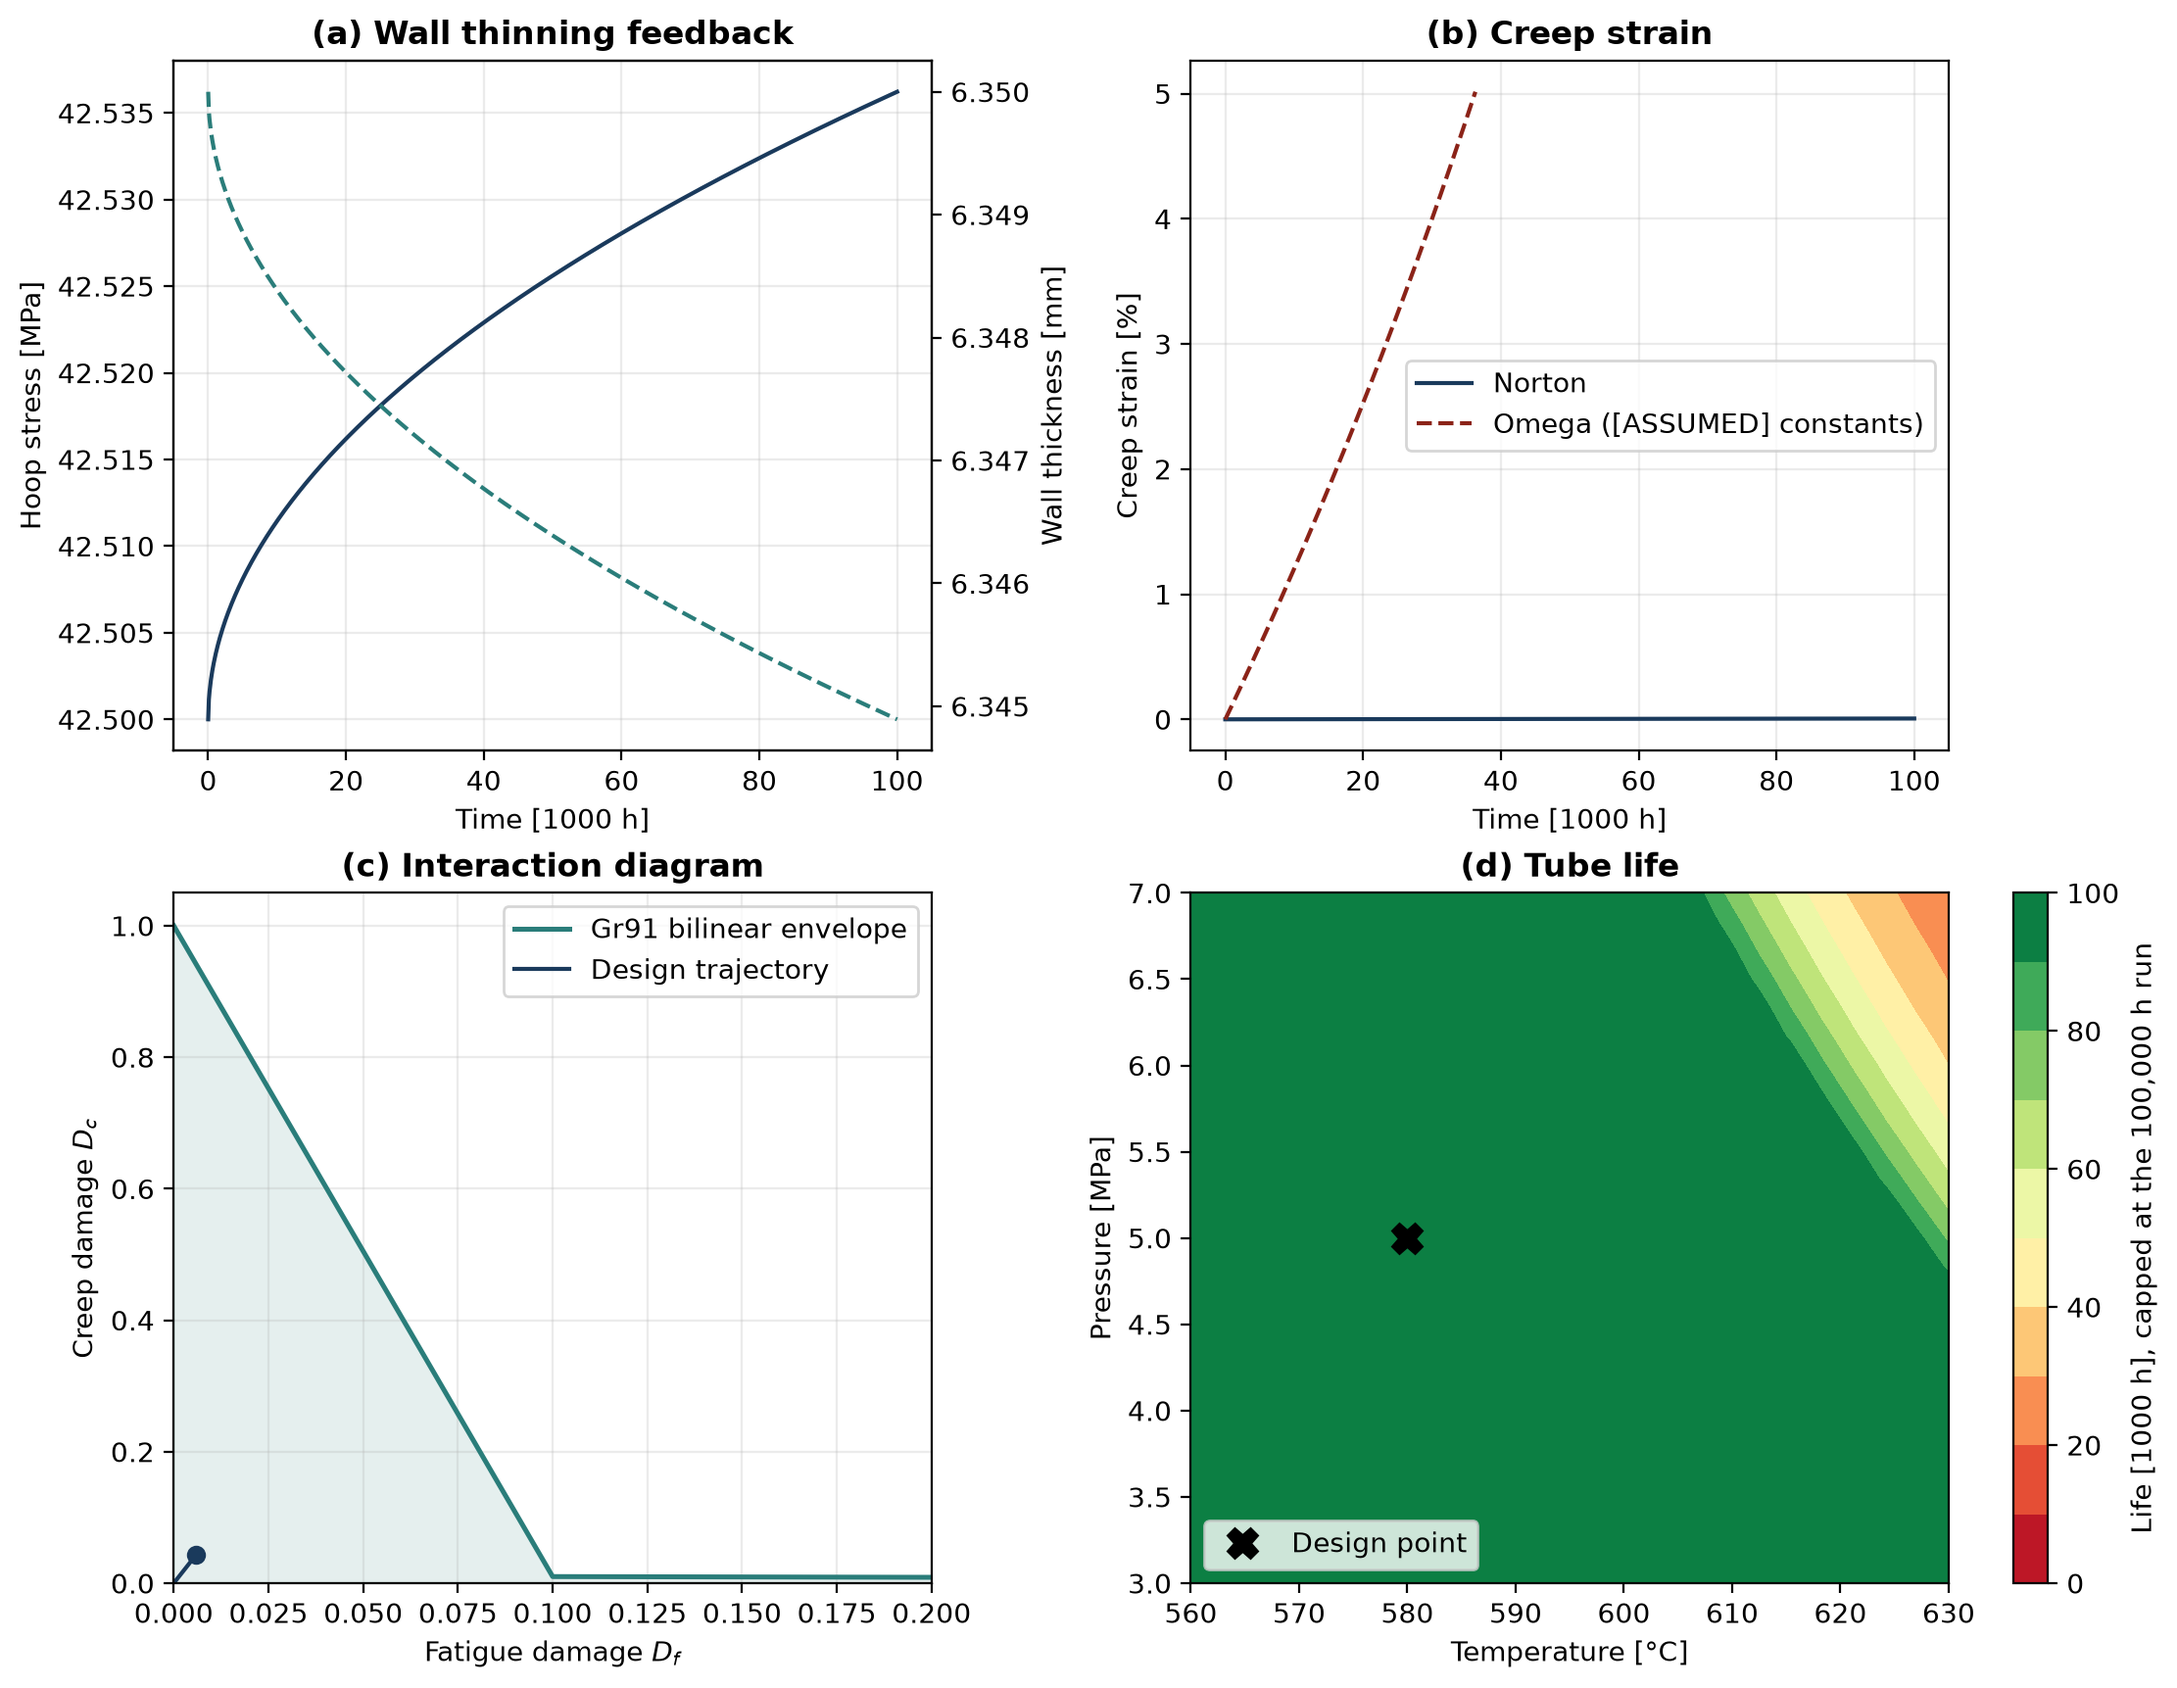
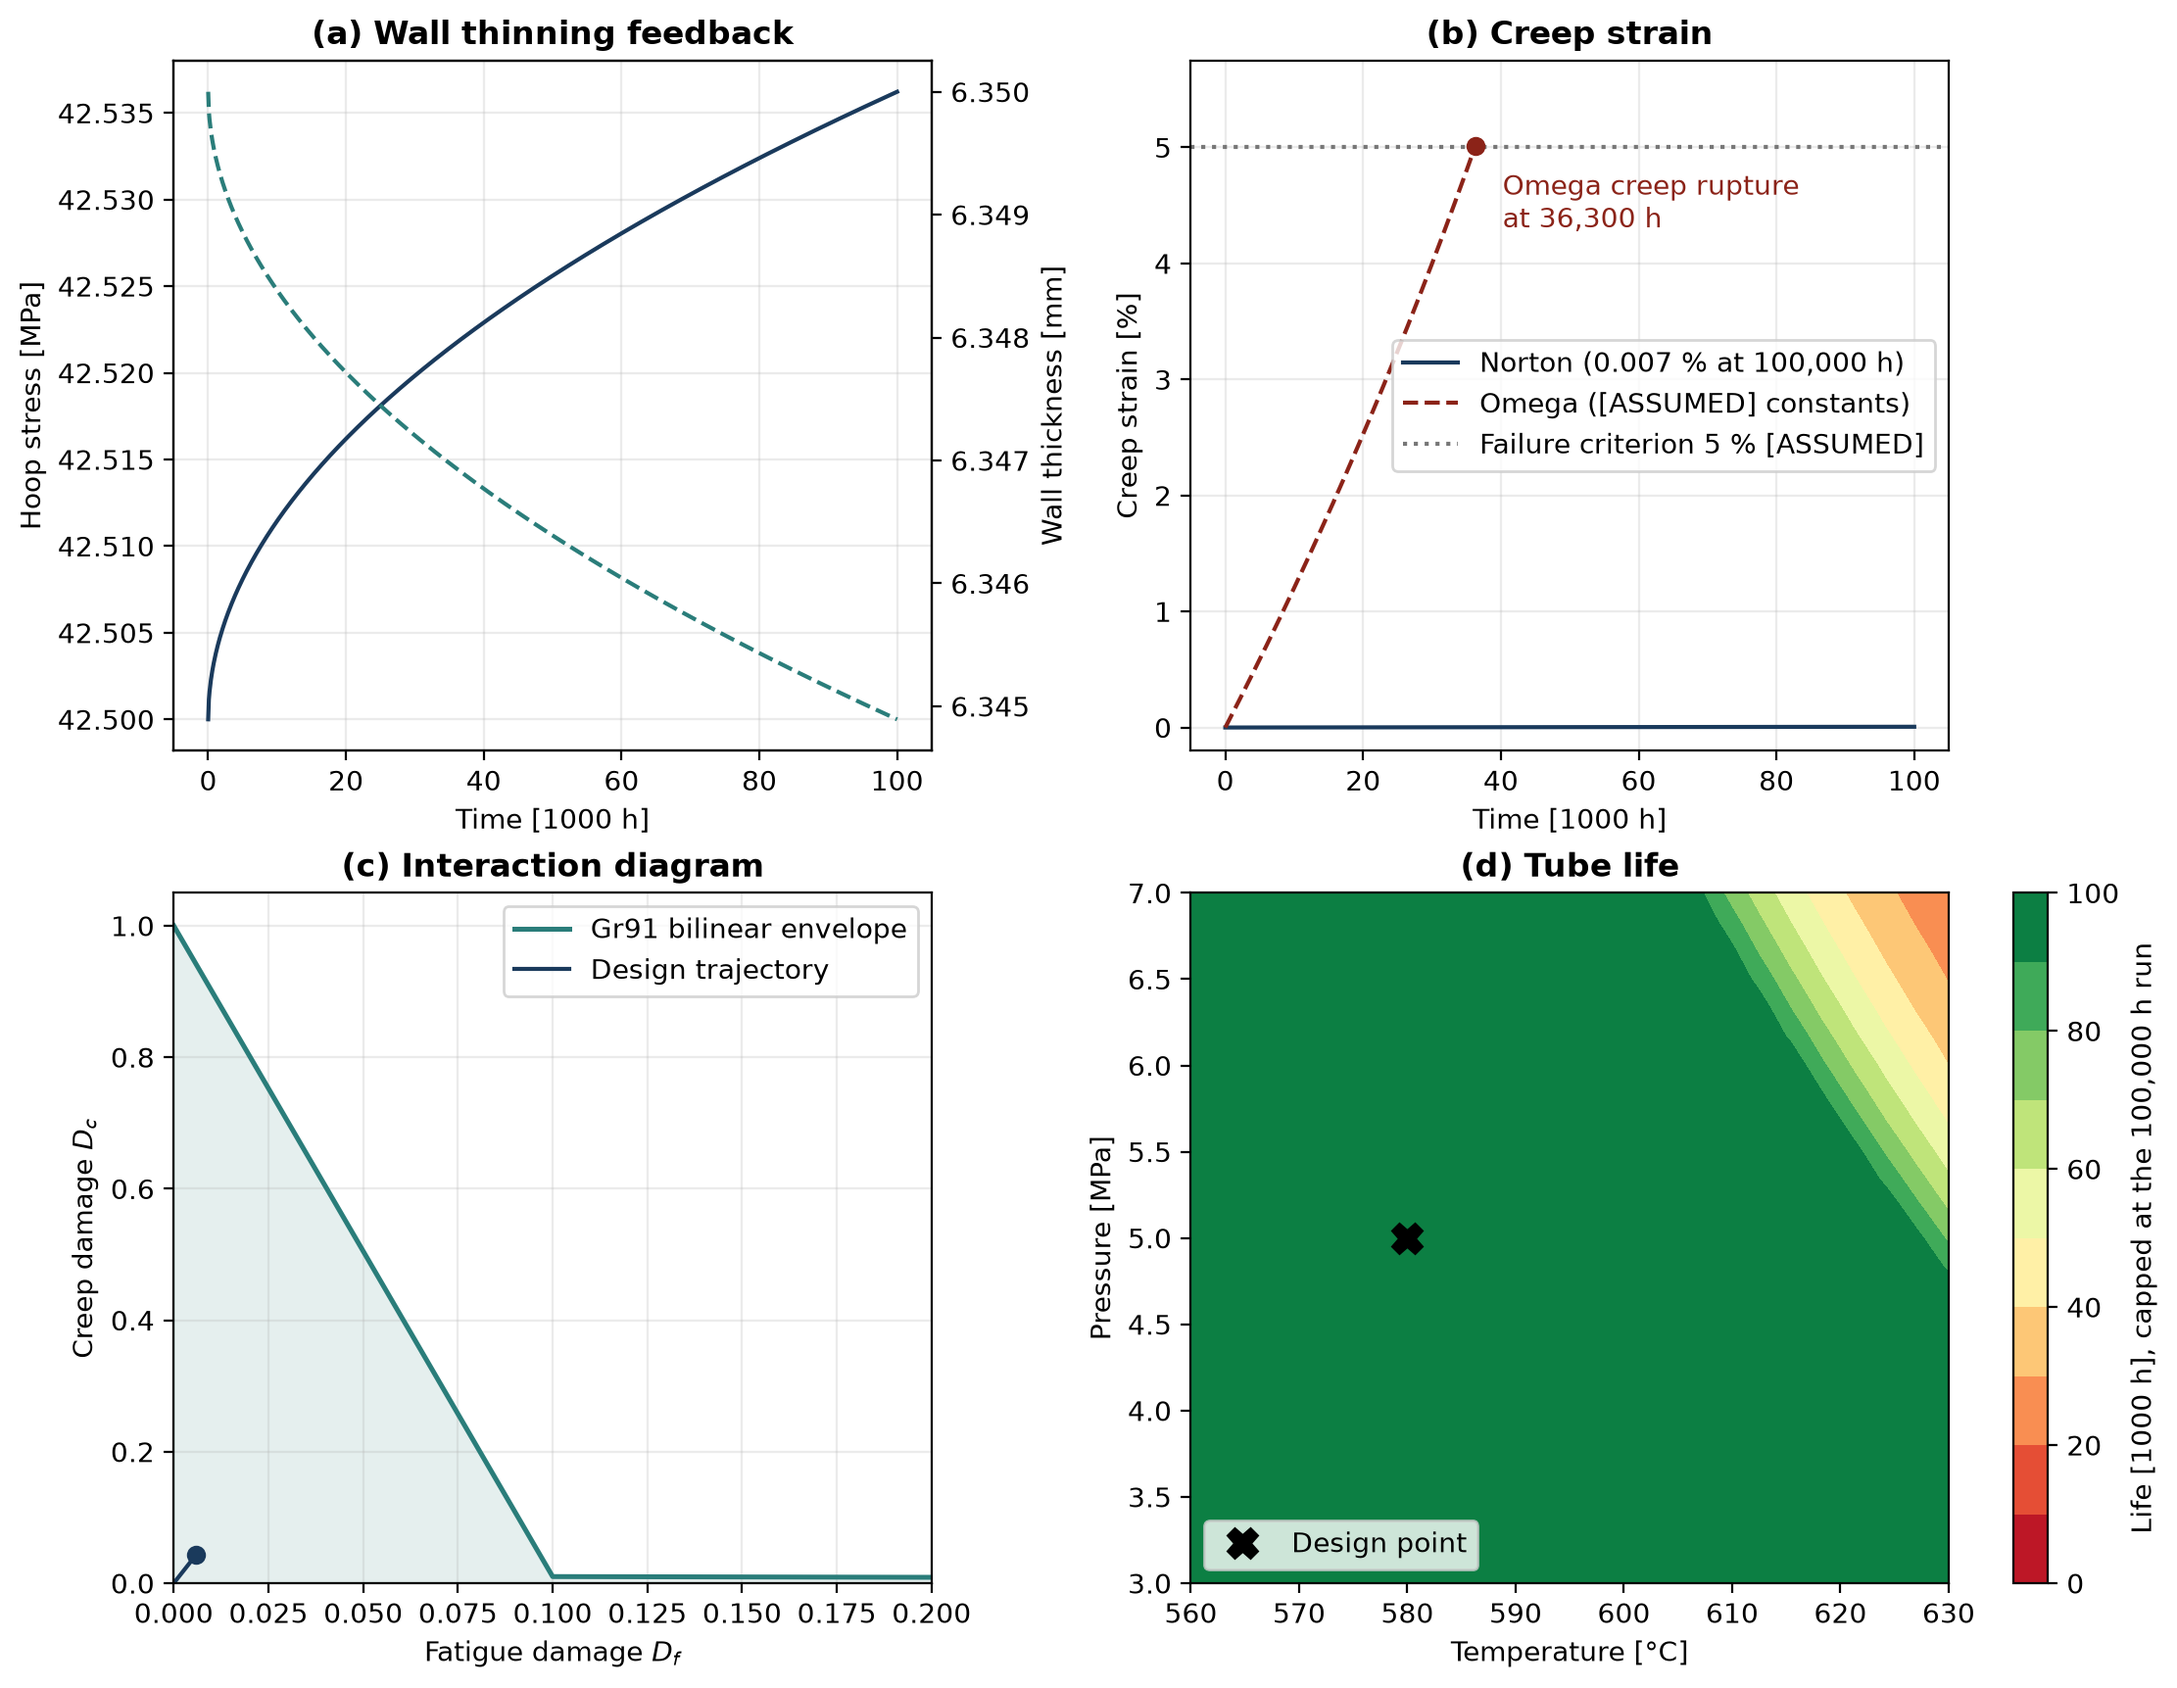
fix(figures): label strain cap and near-zero curves, stop label overlap
Hero panel (b): the Omega run stops at the 5 % creep strain failure criterion; draw the criterion and mark the rupture point (36,300 h). The Norton curve hugs zero, so its end value (0.007 % at 100,000 h) is in the legend.
Wall loss panel: print the end value (0.08 % at 100,000 h) next to the line that sits far below the 40 % criterion.
Surrogate figure: constrained layout so the importance-axis labels no longer overlap the parity panel.

diff --git a/src/visualization.py b/src/visualization.py
@@ -59,11 +59,22 @@ def plot_hero(norton, omega, grid, out):
     b.grid(False)
 
     a = axs[0, 1]
-    a.plot(norton.times_hours / 1e3, norton.creep_strain * 100, color=NAVY, label="Norton")
+    # Norton strain is tiny at 580 C, so its curve hugs zero: print the end value
+    a.plot(norton.times_hours / 1e3, norton.creep_strain * 100, color=NAVY,
+           label=f"Norton ({norton.creep_strain[-1] * 100:.3f} % at "
+                 f"{norton.times_hours[-1]:,.0f} h)")
     a.plot(omega.times_hours / 1e3, omega.creep_strain * 100, "--", color=RED,
            label="Omega ([ASSUMED] constants)")
-    a.set(xlabel="Time [1000 h]", ylabel="Creep strain [%]", title="(b) Creep strain")
-    a.legend()
+    # The Omega run stops when it reaches the strain failure criterion
+    a.axhline(100 * config.SIM_MAX_CREEP_STRAIN, ls=":", color=GREY,
+              label=f"Failure criterion {100 * config.SIM_MAX_CREEP_STRAIN:.0f} % [ASSUMED]")
+    a.plot(omega.times_hours[-1] / 1e3, omega.creep_strain[-1] * 100, "o", color=RED)
+    a.annotate(f"Omega {omega.failure_mode.replace('_', ' ')}\nat {omega.failure_time_hours:,.0f} h",
+               (omega.times_hours[-1] / 1e3, omega.creep_strain[-1] * 100),
+               xytext=(10, -30), textcoords="offset points", color=RED)
+    a.set(xlabel="Time [1000 h]", ylabel="Creep strain [%]", title="(b) Creep strain",
+          ylim=(-0.2, 100 * config.SIM_MAX_CREEP_STRAIN * 1.15))
+    a.legend(loc="center right")
 
     a = axs[1, 0]
     _envelope(a)
@@ -110,6 +121,9 @@ def plot_oxide(out):
     b.plot(t / 1e3, loss, color=NAVY)
     b.axhline(100 * config.SIM_MAX_WALL_LOSS_FRACTION, ls="--", color=RED,
               label="Retirement criterion")
+    # Loss stays far below the criterion, so its line hugs zero: print the end value
+    b.annotate(f"{loss[-1]:.2f} % at {t[-1]:,.0f} h", (t[-1] / 1e3, loss[-1]),
+               xytext=(-10, 12), textcoords="offset points", ha="right", color=NAVY)
     b.set(xlabel="Time [1000 h]", ylabel="Wall loss [%]", title="Effective wall loss")
     b.legend()
     _save(fig, out, "oxide_wall_loss.png")
@@ -140,7 +154,7 @@ def plot_tornado(corr, out):
 
 
 def plot_surrogate(y_true, y_pred, r2, importance, out):
-    fig, (a, b) = plt.subplots(1, 2, figsize=(11, 4.5))
+    fig, (a, b) = plt.subplots(1, 2, figsize=(11, 4.5), constrained_layout=True)
     a.scatter(y_true / 1e3, y_pred / 1e3, s=8, color=NAVY, alpha=0.5)
     top = max(y_true.max(), y_pred.max()) / 1e3
     a.plot([0, top], [0, top], "--", color=GREY)
